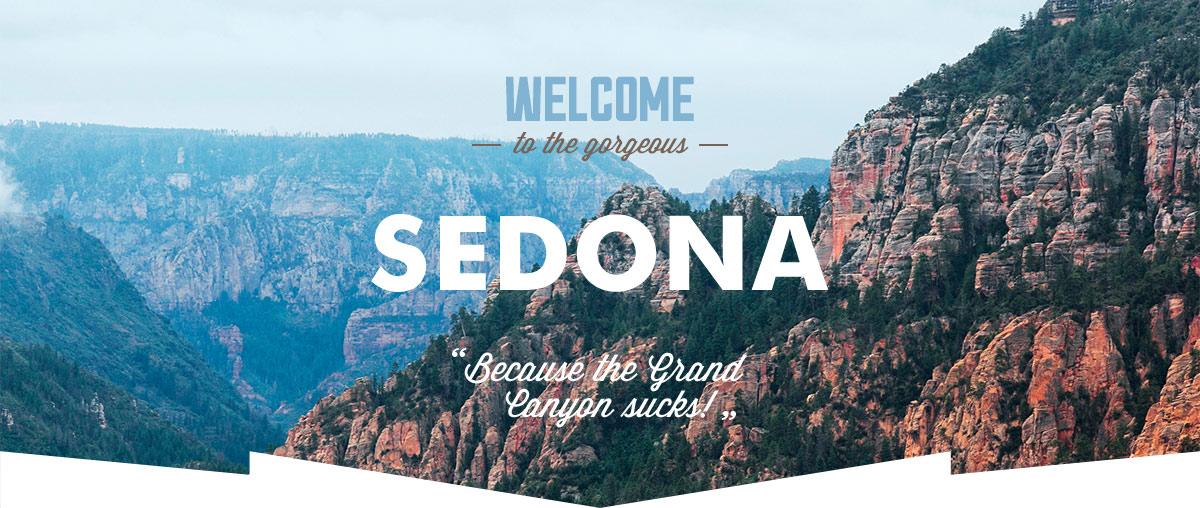
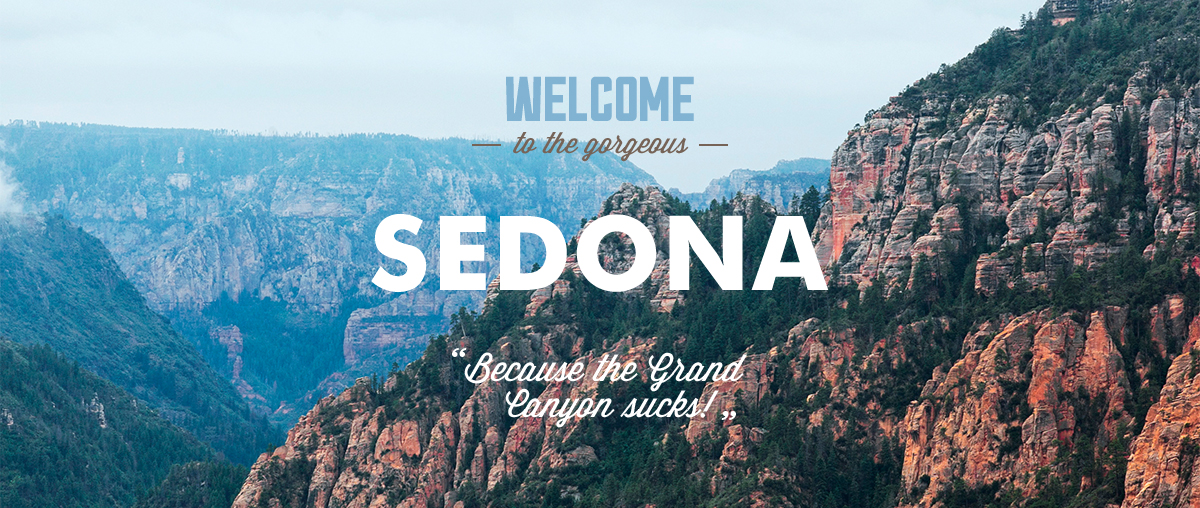
Правки по bg

Changed region(s): [[0.0, 0.8858, 1.0, 1.0]]

diff --git a/css/style.css b/css/style.css
@@ -135,10 +135,23 @@ h3{
 
 
 .intro {
-  width: 1200px;
+  width: 100%;
   height:508px;
   margin: 0 auto;
   background-image: url("../img/bg-index.jpg");
+  background-repeat: no-repeat;
+  position: relative;
+}
+
+.intro:before {
+  content: "";
+  width: 100%;
+  height:57px;
+  margin: 0 auto;
+  background-image: url("../img/shape.png");
+  background-repeat: no-repeat;
+  position: absolute;
+  bottom: 0;
 }
 
 .introduction {
